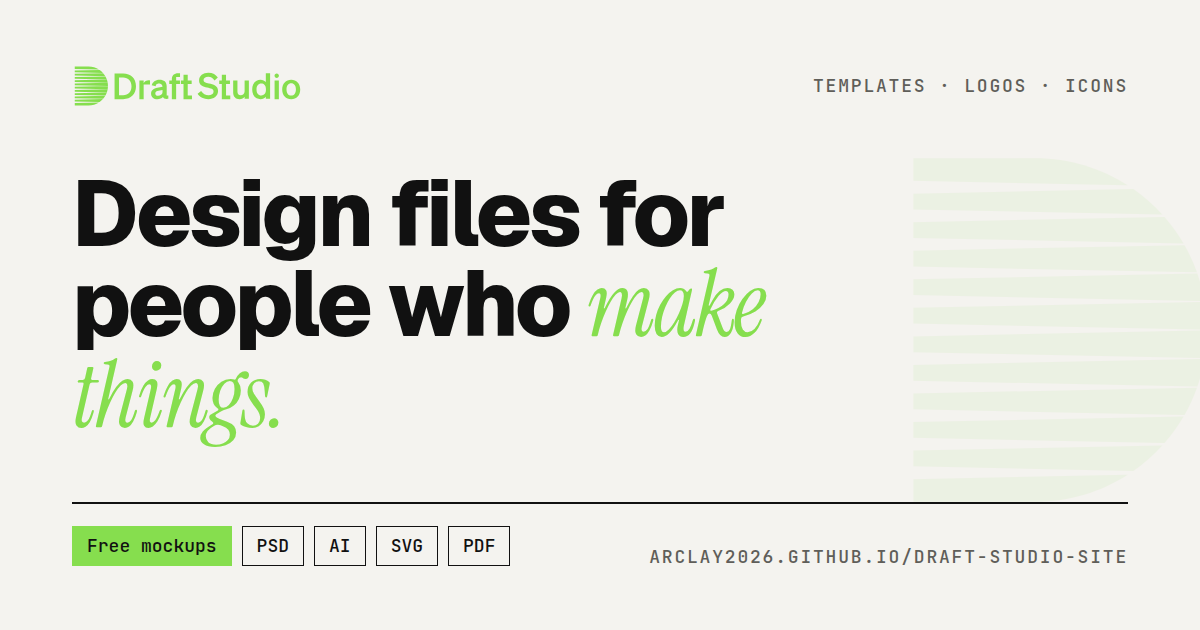
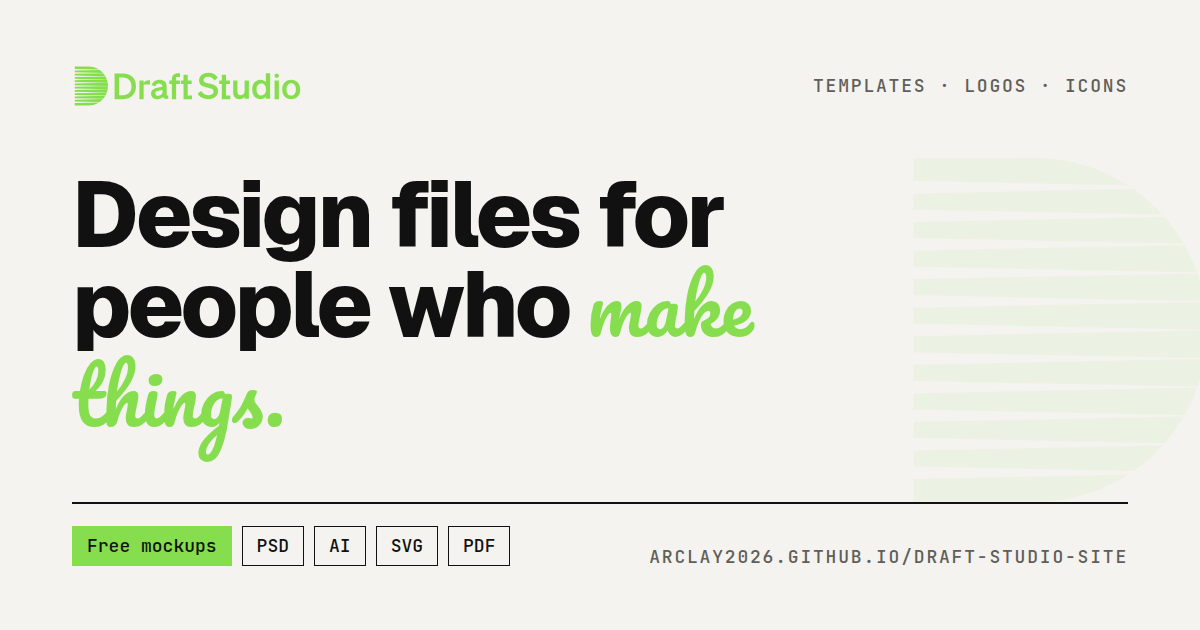
Replace Instrument Serif with Pacifico site-wide
Pacifico is now the accent font (upright, since it has no italic, and
slightly smaller to sit with Geist). Updates every page's font link and
footer credit, the Font pairs page's Draft Studio pair, the README and
the link-preview image.

Claude-Session: https://claude.ai/code/session_019HhhZ4dCFMmcVzfwBYgkR3

diff --git a/fonts.html b/fonts.html
@@ -21,8 +21,8 @@
 <link rel="icon" type="image/svg+xml" href="assets/favicon.svg">
 <link rel="preconnect" href="https://fonts.googleapis.com">
 <link rel="preconnect" href="https://fonts.gstatic.com" crossorigin>
-<link href="https://fonts.googleapis.com/css2?family=Geist:wght@400;500;600;700;800&family=Instrument+Serif:ital@0;1&family=JetBrains+Mono:wght@400;500&display=swap" rel="stylesheet">
-<link rel="stylesheet" href="css/archive.css?v=a88ec5bc24">
+<link href="https://fonts.googleapis.com/css2?family=Geist:wght@400;500;600;700;800&family=Pacifico&family=JetBrains+Mono:wght@400;500&display=swap" rel="stylesheet">
+<link rel="stylesheet" href="css/archive.css?v=a3c5fb633c">
 </head>
 <body data-page="fonts">
 <a class="skip" href="#main">Skip to content</a>
@@ -77,7 +77,7 @@
     <div><p class="label">Find</p><a href="#" data-open-search>Search the archive</a><a href="#" data-open-index>Browse the index</a></div>
   </div>
   <p class="word" aria-hidden="true">Draft Studio<span class="dot">.</span></p>
-  <div class="colophon-base"><span class="label">© <span data-year></span> Draft Studio. Free to use under the licence above.</span><span class="label">Set in Geist, Instrument Serif &amp; JetBrains Mono</span></div>
+  <div class="colophon-base"><span class="label">© <span data-year></span> Draft Studio. Free to use under the licence above.</span><span class="label">Set in Geist, Pacifico &amp; JetBrains Mono</span></div>
 </footer>
 
 <nav class="dock" aria-label="Primary">
@@ -92,6 +92,6 @@
 
 <script>/* always load the newest catalog, never a cached copy */document.write('<script src="js/catalog.js?v=' + Date.now() + '"><\/script>');</script>
 <script src="js/core.js?v=a2b529db7a"></script>
-<script src="js/fonts.js?v=5da8b371c7"></script>
+<script src="js/fonts.js?v=270ffc9a49"></script>
 </body>
 </html>

diff --git a/templates.html b/templates.html
@@ -21,8 +21,8 @@
 <link rel="icon" type="image/svg+xml" href="assets/favicon.svg">
 <link rel="preconnect" href="https://fonts.googleapis.com">
 <link rel="preconnect" href="https://fonts.gstatic.com" crossorigin>
-<link href="https://fonts.googleapis.com/css2?family=Geist:wght@400;500;600;700;800&family=Instrument+Serif:ital@0;1&family=JetBrains+Mono:wght@400;500&display=swap" rel="stylesheet">
-<link rel="stylesheet" href="css/archive.css?v=a88ec5bc24">
+<link href="https://fonts.googleapis.com/css2?family=Geist:wght@400;500;600;700;800&family=Pacifico&family=JetBrains+Mono:wght@400;500&display=swap" rel="stylesheet">
+<link rel="stylesheet" href="css/archive.css?v=a3c5fb633c">
 </head>
 <body data-page="browse" data-type="template">
 <a class="skip" href="#main">Skip to content</a>
@@ -69,7 +69,7 @@
     <div><p class="label">Find</p><a href="#" data-open-search>Search the archive</a><a href="#" data-open-index>Browse the index</a></div>
   </div>
   <p class="word" aria-hidden="true">Draft Studio<span class="dot">.</span></p>
-  <div class="colophon-base"><span class="label">© <span data-year></span> Draft Studio. Free to use under the licence above.</span><span class="label">Set in Geist, Instrument Serif &amp; JetBrains Mono</span></div>
+  <div class="colophon-base"><span class="label">© <span data-year></span> Draft Studio. Free to use under the licence above.</span><span class="label">Set in Geist, Pacifico &amp; JetBrains Mono</span></div>
 </footer>
 
 <nav class="dock" aria-label="Primary">

diff --git a/logos.html b/logos.html
@@ -21,8 +21,8 @@
 <link rel="icon" type="image/svg+xml" href="assets/favicon.svg">
 <link rel="preconnect" href="https://fonts.googleapis.com">
 <link rel="preconnect" href="https://fonts.gstatic.com" crossorigin>
-<link href="https://fonts.googleapis.com/css2?family=Geist:wght@400;500;600;700;800&family=Instrument+Serif:ital@0;1&family=JetBrains+Mono:wght@400;500&display=swap" rel="stylesheet">
-<link rel="stylesheet" href="css/archive.css?v=a88ec5bc24">
+<link href="https://fonts.googleapis.com/css2?family=Geist:wght@400;500;600;700;800&family=Pacifico&family=JetBrains+Mono:wght@400;500&display=swap" rel="stylesheet">
+<link rel="stylesheet" href="css/archive.css?v=a3c5fb633c">
 </head>
 <body data-page="browse" data-type="logo">
 <a class="skip" href="#main">Skip to content</a>
@@ -69,7 +69,7 @@
     <div><p class="label">Find</p><a href="#" data-open-search>Search the archive</a><a href="#" data-open-index>Browse the index</a></div>
   </div>
   <p class="word" aria-hidden="true">Draft Studio<span class="dot">.</span></p>
-  <div class="colophon-base"><span class="label">© <span data-year></span> Draft Studio. Free to use under the licence above.</span><span class="label">Set in Geist, Instrument Serif &amp; JetBrains Mono</span></div>
+  <div class="colophon-base"><span class="label">© <span data-year></span> Draft Studio. Free to use under the licence above.</span><span class="label">Set in Geist, Pacifico &amp; JetBrains Mono</span></div>
 </footer>
 
 <nav class="dock" aria-label="Primary">

diff --git a/palettes.html b/palettes.html
@@ -21,8 +21,8 @@
 <link rel="icon" type="image/svg+xml" href="assets/favicon.svg">
 <link rel="preconnect" href="https://fonts.googleapis.com">
 <link rel="preconnect" href="https://fonts.gstatic.com" crossorigin>
-<link href="https://fonts.googleapis.com/css2?family=Geist:wght@400;500;600;700;800&family=Instrument+Serif:ital@0;1&family=JetBrains+Mono:wght@400;500&display=swap" rel="stylesheet">
-<link rel="stylesheet" href="css/archive.css?v=a88ec5bc24">
+<link href="https://fonts.googleapis.com/css2?family=Geist:wght@400;500;600;700;800&family=Pacifico&family=JetBrains+Mono:wght@400;500&display=swap" rel="stylesheet">
+<link rel="stylesheet" href="css/archive.css?v=a3c5fb633c">
 </head>
 <body data-page="palettes">
 <a class="skip" href="#main">Skip to content</a>
@@ -74,7 +74,7 @@
     <div><p class="label">Find</p><a href="#" data-open-search>Search the archive</a><a href="#" data-open-index>Browse the index</a></div>
   </div>
   <p class="word" aria-hidden="true">Draft Studio<span class="dot">.</span></p>
-  <div class="colophon-base"><span class="label">© <span data-year></span> Draft Studio. Free to use under the licence above.</span><span class="label">Set in Geist, Instrument Serif &amp; JetBrains Mono</span></div>
+  <div class="colophon-base"><span class="label">© <span data-year></span> Draft Studio. Free to use under the licence above.</span><span class="label">Set in Geist, Pacifico &amp; JetBrains Mono</span></div>
 </footer>
 
 <nav class="dock" aria-label="Primary">

diff --git a/about.html b/about.html
@@ -21,8 +21,8 @@
 <link rel="icon" type="image/svg+xml" href="assets/favicon.svg">
 <link rel="preconnect" href="https://fonts.googleapis.com">
 <link rel="preconnect" href="https://fonts.gstatic.com" crossorigin>
-<link href="https://fonts.googleapis.com/css2?family=Geist:wght@400;500;600;700;800&family=Instrument+Serif:ital@0;1&family=JetBrains+Mono:wght@400;500&display=swap" rel="stylesheet">
-<link rel="stylesheet" href="css/archive.css?v=a88ec5bc24">
+<link href="https://fonts.googleapis.com/css2?family=Geist:wght@400;500;600;700;800&family=Pacifico&family=JetBrains+Mono:wght@400;500&display=swap" rel="stylesheet">
+<link rel="stylesheet" href="css/archive.css?v=a3c5fb633c">
 </head>
 <body data-page="about">
 <a class="skip" href="#main">Skip to content</a>
@@ -107,7 +107,7 @@
     <div><p class="label">Find</p><a href="#" data-open-search>Search the archive</a><a href="#" data-open-index>Browse the index</a></div>
   </div>
   <p class="word" aria-hidden="true">Draft Studio<span class="dot">.</span></p>
-  <div class="colophon-base"><span class="label">© <span data-year></span> Draft Studio. Free to use under the licence above.</span><span class="label">Set in Geist, Instrument Serif &amp; JetBrains Mono</span></div>
+  <div class="colophon-base"><span class="label">© <span data-year></span> Draft Studio. Free to use under the licence above.</span><span class="label">Set in Geist, Pacifico &amp; JetBrains Mono</span></div>
 </footer>
 
 <nav class="dock" aria-label="Primary">

diff --git a/start.html b/start.html
@@ -21,8 +21,8 @@
 <link rel="icon" type="image/svg+xml" href="assets/favicon.svg">
 <link rel="preconnect" href="https://fonts.googleapis.com">
 <link rel="preconnect" href="https://fonts.gstatic.com" crossorigin>
-<link href="https://fonts.googleapis.com/css2?family=Geist:wght@400;500;600;700;800&family=Instrument+Serif:ital@0;1&family=JetBrains+Mono:wght@400;500&display=swap" rel="stylesheet">
-<link rel="stylesheet" href="css/archive.css?v=a88ec5bc24">
+<link href="https://fonts.googleapis.com/css2?family=Geist:wght@400;500;600;700;800&family=Pacifico&family=JetBrains+Mono:wght@400;500&display=swap" rel="stylesheet">
+<link rel="stylesheet" href="css/archive.css?v=a3c5fb633c">
 </head>
 <body data-page="start">
 <a class="skip" href="#main">Skip to content</a>
@@ -177,7 +177,7 @@
     <div><p class="label">Find</p><a href="#" data-open-search>Search the archive</a><a href="#" data-open-index>Browse the index</a></div>
   </div>
   <p class="word" aria-hidden="true">Draft Studio<span class="dot">.</span></p>
-  <div class="colophon-base"><span class="label">© <span data-year></span> Draft Studio. Free to use under the licence above.</span><span class="label">Set in Geist, Instrument Serif &amp; JetBrains Mono</span></div>
+  <div class="colophon-base"><span class="label">© <span data-year></span> Draft Studio. Free to use under the licence above.</span><span class="label">Set in Geist, Pacifico &amp; JetBrains Mono</span></div>
 </footer>
 
 <nav class="dock" aria-label="Primary">

diff --git a/index.html b/index.html
@@ -21,8 +21,8 @@
 <link rel="icon" type="image/svg+xml" href="assets/favicon.svg">
 <link rel="preconnect" href="https://fonts.googleapis.com">
 <link rel="preconnect" href="https://fonts.gstatic.com" crossorigin>
-<link href="https://fonts.googleapis.com/css2?family=Geist:wght@400;500;600;700;800&family=Instrument+Serif:ital@0;1&family=JetBrains+Mono:wght@400;500&display=swap" rel="stylesheet">
-<link rel="stylesheet" href="css/archive.css?v=a88ec5bc24">
+<link href="https://fonts.googleapis.com/css2?family=Geist:wght@400;500;600;700;800&family=Pacifico&family=JetBrains+Mono:wght@400;500&display=swap" rel="stylesheet">
+<link rel="stylesheet" href="css/archive.css?v=a3c5fb633c">
 </head>
 <body data-page="home">
 <a class="skip" href="#main">Skip to content</a>
@@ -129,7 +129,7 @@
     <div><p class="label">Find</p><a href="#" data-open-search>Search the archive</a><a href="#" data-open-index>Browse the index</a></div>
   </div>
   <p class="word" aria-hidden="true">Draft Studio<span class="dot">.</span></p>
-  <div class="colophon-base"><span class="label">© <span data-year></span> Draft Studio. Free to use under the licence above.</span><span class="label">Set in Geist, Instrument Serif &amp; JetBrains Mono</span></div>
+  <div class="colophon-base"><span class="label">© <span data-year></span> Draft Studio. Free to use under the licence above.</span><span class="label">Set in Geist, Pacifico &amp; JetBrains Mono</span></div>
 </footer>
 
 <nav class="dock" aria-label="Primary">

diff --git a/icons.html b/icons.html
@@ -21,8 +21,8 @@
 <link rel="icon" type="image/svg+xml" href="assets/favicon.svg">
 <link rel="preconnect" href="https://fonts.googleapis.com">
 <link rel="preconnect" href="https://fonts.gstatic.com" crossorigin>
-<link href="https://fonts.googleapis.com/css2?family=Geist:wght@400;500;600;700;800&family=Instrument+Serif:ital@0;1&family=JetBrains+Mono:wght@400;500&display=swap" rel="stylesheet">
-<link rel="stylesheet" href="css/archive.css?v=a88ec5bc24">
+<link href="https://fonts.googleapis.com/css2?family=Geist:wght@400;500;600;700;800&family=Pacifico&family=JetBrains+Mono:wght@400;500&display=swap" rel="stylesheet">
+<link rel="stylesheet" href="css/archive.css?v=a3c5fb633c">
 </head>
 <body data-page="icons">
 <a class="skip" href="#main">Skip to content</a>
@@ -86,7 +86,7 @@
     <div><p class="label">Find</p><a href="#" data-open-search>Search the archive</a><a href="#" data-open-index>Browse the index</a></div>
   </div>
   <p class="word" aria-hidden="true">Draft Studio<span class="dot">.</span></p>
-  <div class="colophon-base"><span class="label">© <span data-year></span> Draft Studio. Free to use under the licence above.</span><span class="label">Set in Geist, Instrument Serif &amp; JetBrains Mono</span></div>
+  <div class="colophon-base"><span class="label">© <span data-year></span> Draft Studio. Free to use under the licence above.</span><span class="label">Set in Geist, Pacifico &amp; JetBrains Mono</span></div>
 </footer>
 
 <nav class="dock" aria-label="Primary">

diff --git a/item.html b/item.html
@@ -21,8 +21,8 @@
 <link rel="icon" type="image/svg+xml" href="assets/favicon.svg">
 <link rel="preconnect" href="https://fonts.googleapis.com">
 <link rel="preconnect" href="https://fonts.gstatic.com" crossorigin>
-<link href="https://fonts.googleapis.com/css2?family=Geist:wght@400;500;600;700;800&family=Instrument+Serif:ital@0;1&family=JetBrains+Mono:wght@400;500&display=swap" rel="stylesheet">
-<link rel="stylesheet" href="css/archive.css?v=a88ec5bc24">
+<link href="https://fonts.googleapis.com/css2?family=Geist:wght@400;500;600;700;800&family=Pacifico&family=JetBrains+Mono:wght@400;500&display=swap" rel="stylesheet">
+<link rel="stylesheet" href="css/archive.css?v=a3c5fb633c">
 </head>
 <body data-page="item">
 <a class="skip" href="#main">Skip to content</a>
@@ -49,7 +49,7 @@
     <div><p class="label">Find</p><a href="#" data-open-search>Search the archive</a><a href="#" data-open-index>Browse the index</a></div>
   </div>
   <p class="word" aria-hidden="true">Draft Studio<span class="dot">.</span></p>
-  <div class="colophon-base"><span class="label">© <span data-year></span> Draft Studio. Free to use under the licence above.</span><span class="label">Set in Geist, Instrument Serif &amp; JetBrains Mono</span></div>
+  <div class="colophon-base"><span class="label">© <span data-year></span> Draft Studio. Free to use under the licence above.</span><span class="label">Set in Geist, Pacifico &amp; JetBrains Mono</span></div>
 </footer>
 
 <nav class="dock" aria-label="Primary">

diff --git a/js/fonts.js b/js/fonts.js
@@ -10,7 +10,7 @@
   var DS = window.DS, $ = DS.$, $all = DS.$all, esc = DS.esc, pad = DS.pad;
 
   var PAIRS = [
-    { h: { f: "Instrument Serif", w: 400, s: "serif" },  b: { f: "Geist", s: "sans-serif" }, moods: ["Editorial", "Modern"], note: "The Draft Studio pair" },
+    { h: { f: "Pacifico", w: 400, s: "cursive" },  b: { f: "Geist", s: "sans-serif" }, moods: ["Editorial", "Modern"], note: "The Draft Studio pair" },
     { h: { f: "Playfair Display", w: 700, s: "serif" },  b: { f: "Source Sans 3", s: "sans-serif" }, moods: ["Editorial", "Classic"] },
     { h: { f: "Montserrat", w: 700, s: "sans-serif" },   b: { f: "Merriweather", s: "serif" }, moods: ["Modern", "Classic"] },
     { h: { f: "Bebas Neue", w: 400, s: "sans-serif" },   b: { f: "Inter", s: "sans-serif" }, moods: ["Bold"] },
@@ -60,7 +60,7 @@
   function loadFonts(i) {
     if (loaded[i]) return; loaded[i] = true;
     var p = PAIRS[i];
-    if (p.h.f === "Instrument Serif" && p.b.f === "Geist") return;   // already on every page
+    if (p.h.f === "Pacifico" && p.b.f === "Geist") return;   // already on every page
     var l = document.createElement("link"); l.rel = "stylesheet"; l.href = cssUrl(p); document.head.appendChild(l);
   }
   var io = "IntersectionObserver" in window ? new IntersectionObserver(function (es) {

diff --git a/css/archive.css b/css/archive.css
@@ -52,7 +52,7 @@
 
   /* type families */
   --f-sans: "Geist", system-ui, sans-serif;
-  --f-serif: "Instrument Serif", "Times New Roman", serif;
+  --f-serif: "Pacifico", cursive;
   --f-mono: "JetBrains Mono", ui-monospace, SFMono-Regular, Menlo, monospace;
 
   /* type scale (fluid between 390px and 1440px) */
@@ -2042,3 +2042,9 @@ input[type="range"]::-webkit-slider-runnable-track { border-radius: 2px; }
 .fp-top { flex-wrap: wrap; }
 .fp-foot { flex-wrap: wrap; }
 @media (max-width: 479px) { .fp-foot { flex-direction: column; align-items: stretch; } .fp-css { align-self: flex-start; } }
+
+/* Accent font: Pacifico is an upright script with no italic, so it is set
+   upright (no fake slant) and a little smaller to sit with Geist headlines */
+em.s, .serif, .cat-list li:nth-child(even) .name, .studio blockquote { font-style: normal; font-synthesis: none; letter-spacing: 0; }
+em.s { font-size: .86em; }
+.studio blockquote { font-size: clamp(26px, 12px + 2.8vw, 58px); line-height: 1.25; }

diff --git a/README.md b/README.md
@@ -32,7 +32,7 @@ All tokens live at the top of `css/archive.css`:
 
 - **Colour:** ink `#111111`, paper `#f4f3ef`, green `#86de4e` as the only signal colour.
   Dark mode swaps ink and paper and uses a lighter blue for text so it stays readable.
-- **Type:** Geist (brand), Instrument Serif italic (contrast), JetBrains Mono (metadata).
+- **Type:** Geist (brand), Pacifico (accent words), JetBrains Mono (metadata).
   A fluid scale (`--fs-label` … `--fs-mega`) grows smoothly from phone to desktop; big headlines
   scale to their container, so they never run off the screen. Nothing is smaller than 12px.
 - **Spacing:** a 4px scale (`--s1` … `--s9`) plus `--section` for the gap between sections.
